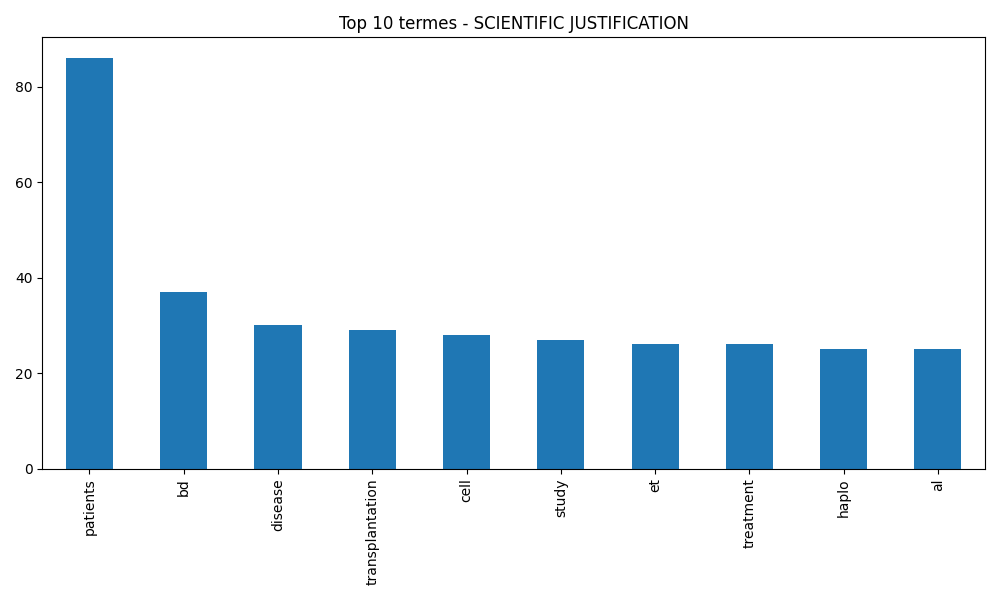
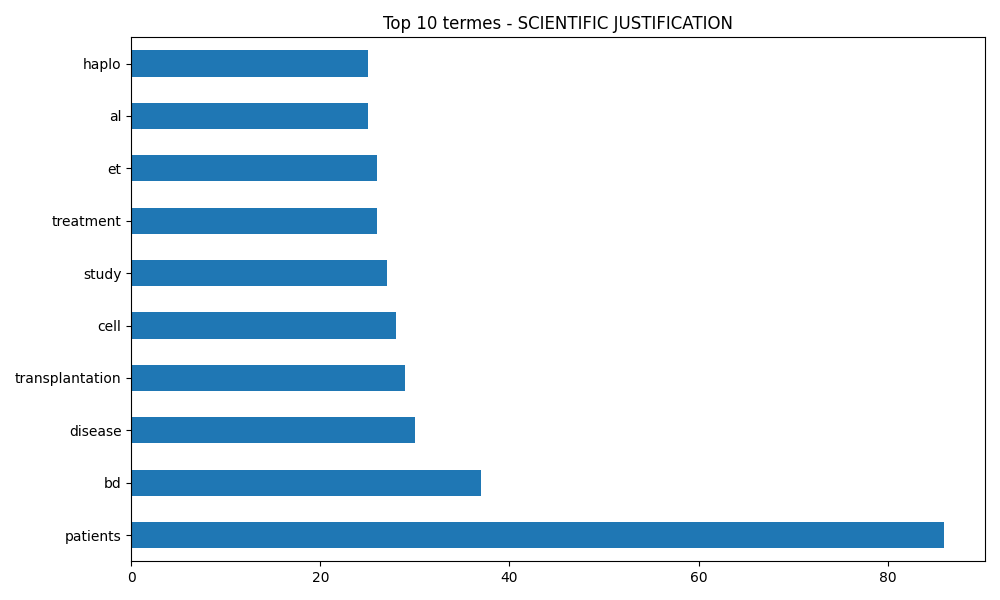
Analyse Terme Frequency
Changement du code des termes frequency pour enlever le preprocessing et les changement de graphiques

diff --git a/Analyse_json/descriptif_termes.py b/Analyse_json/descriptif_termes.py
@@ -1,12 +1,12 @@
 import json
-from nltk.corpus import stopwords
-import nltk
 import os
 import re
 from collections import defaultdict
 import pandas as pd
 from sklearn.feature_extraction.text import CountVectorizer
 import matplotlib.pyplot as plt
+from nltk.corpus import stopwords
+import nltk
 
 # Télécharger les stopwords
 nltk.download('stopwords')
@@ -15,29 +15,20 @@ nltk.download('stopwords')
 with open('/home/loris/Stage/STAGE/Test/db_sortie_block/DOC/grouped_titles2.json', 'r') as file:
     data = json.load(file)
 
-# Prétraitement du texte
-def preprocess_text(text):
-    if not isinstance(text, str):
-        return ""
-    
-    text = text.lower()
-    text = re.sub(r'[^\w\s]', ' ', text)
-    text = re.sub(r'\d+', '', text)
-    text = re.sub(r'\s+', ' ', text).strip()
-    return text
-
-# Préparer les stopwords
+# Initialiser les stopwords
 stop_words = set(stopwords.words('english'))
 
 # 1. Regrouper le texte par section (toutes études confondues)
 section_texts = defaultdict(str)
 
 for study in data.values():
-    for section, paragraphs in study.items():
-        # Fusionner les paragraphes en un seul texte
-        merged_text = " ".join([p for p in paragraphs if isinstance(p, str)])
-        if merged_text:
-            section_texts[section] += preprocess_text(merged_text) + " "
+    for section, text in study.items():
+        if isinstance(text, str) and text.strip():
+            # Filtrer les stopwords avant l'agrégation
+            words = [word for word in text.split() if word.lower() not in stop_words]
+            filtered_text = ' '.join(words)
+            if filtered_text.strip():
+                section_texts[section] += filtered_text + " "
 
 # 2. Analyser les fréquences par section
 section_results = {}
@@ -46,42 +37,47 @@ for section, text in section_texts.items():
     if not text.strip():
         continue
         
-    # Vectorisation
-    vectorizer = CountVectorizer(stop_words=list(stop_words), max_features=50)
-    X = vectorizer.fit_transform([text])
-    vocab = vectorizer.get_feature_names_out()
-    counts = X.toarray()[0]
-    
-    # Stocker les résultats
-    section_results[section] = pd.Series(counts, index=vocab).sort_values(ascending=False)
+    try:
+        # Vectorisation avec stopwords déjà filtrés
+        vectorizer = CountVectorizer(max_features=50, stop_words=list(stop_words))
+        X = vectorizer.fit_transform([text])
+        
+        if X.shape[1] == 0:
+            print(f"Aucun terme valide dans la section {section} - texte: '{text[:50]}...'")
+            continue
+            
+        vocab = vectorizer.get_feature_names_out()
+        counts = X.toarray()[0]
+        
+        section_results[section] = pd.Series(counts, index=vocab).sort_values(ascending=False)
+        
+    except ValueError as e:
+        print(f"Erreur dans la section {section}: {str(e)}")
+        continue
 
 # 3. Sauvegarder les résultats
-output_dir = "/home/loris/Stage/STAGE/Test/db_sortie_block/DOC/analysis/section_term_frequency"
-os.makedirs(output_dir, exist_ok=True)
+if section_results:
+    output_dir = "/home/loris/Stage/STAGE/Test/db_sortie_block/DOC/analysis/section_term_frequency"
+    os.makedirs(output_dir, exist_ok=True)
 
-# DataFrame global
-df_sections = pd.DataFrame(section_results)
-df_sections.fillna(0, inplace=True)
+    df_sections = pd.DataFrame(section_results)
+    df_sections.fillna(0, inplace=True)
+    df_sections['total'] = df_sections.sum(axis=1)
 
-# Ajout de la colonne 'total' (somme sur toutes les sections)
-df_sections['total'] = df_sections.sum(axis=1)
+    for section in df_sections.columns[:-1]:
+        top_terms = df_sections[section].sort_values(ascending=False).head(20)
+        
+        if not top_terms.empty:
+            plt.figure(figsize=(10, 6))
+            top_terms.head(10).plot.barh()
+            plt.title(f'Top 10 termes - {section}')
+            plt.tight_layout()
+            plt.savefig(f'{output_dir}/{section}_top_terms.png')
+            plt.close()
 
-# Sauvegarder les top termes par section
-for section in df_sections.columns[:-1]:  # On exclut la colonne 'total' ici
-    top_terms = df_sections[section].sort_values(ascending=False).head(20)
+    df_sections.sort_values(by='total', ascending=False).to_csv(
+        f'{output_dir}/all_sections_term_frequencies.csv')
     
-    # Fichier CSV
-    top_terms.to_csv(f'{output_dir}/{section}_top_terms.csv', header=['count'])
-    
-    # Visualisation
-    plt.figure(figsize=(10, 6))
-    top_terms.head(10).plot.bar()
-    plt.title(f'Top 10 termes - {section}')
-    plt.tight_layout()
-    plt.savefig(f'{output_dir}/{section}_top_terms.png')
-    plt.close()
-
-# Sauvegarder le tableau complet avec la colonne total
-df_sections.sort_values(by='total', ascending=False).to_csv(f'{output_dir}/all_sections_term_frequencies.csv')
-
-print(f"Analyse terminée. Résultats sauvegardés dans : {output_dir}")
+    print(f"Analyse terminée. Résultats sauvegardés dans : {output_dir}")
+else:
+    print("Aucune donnée valide après traitement - vérifiez votre fichier d'entrée")
